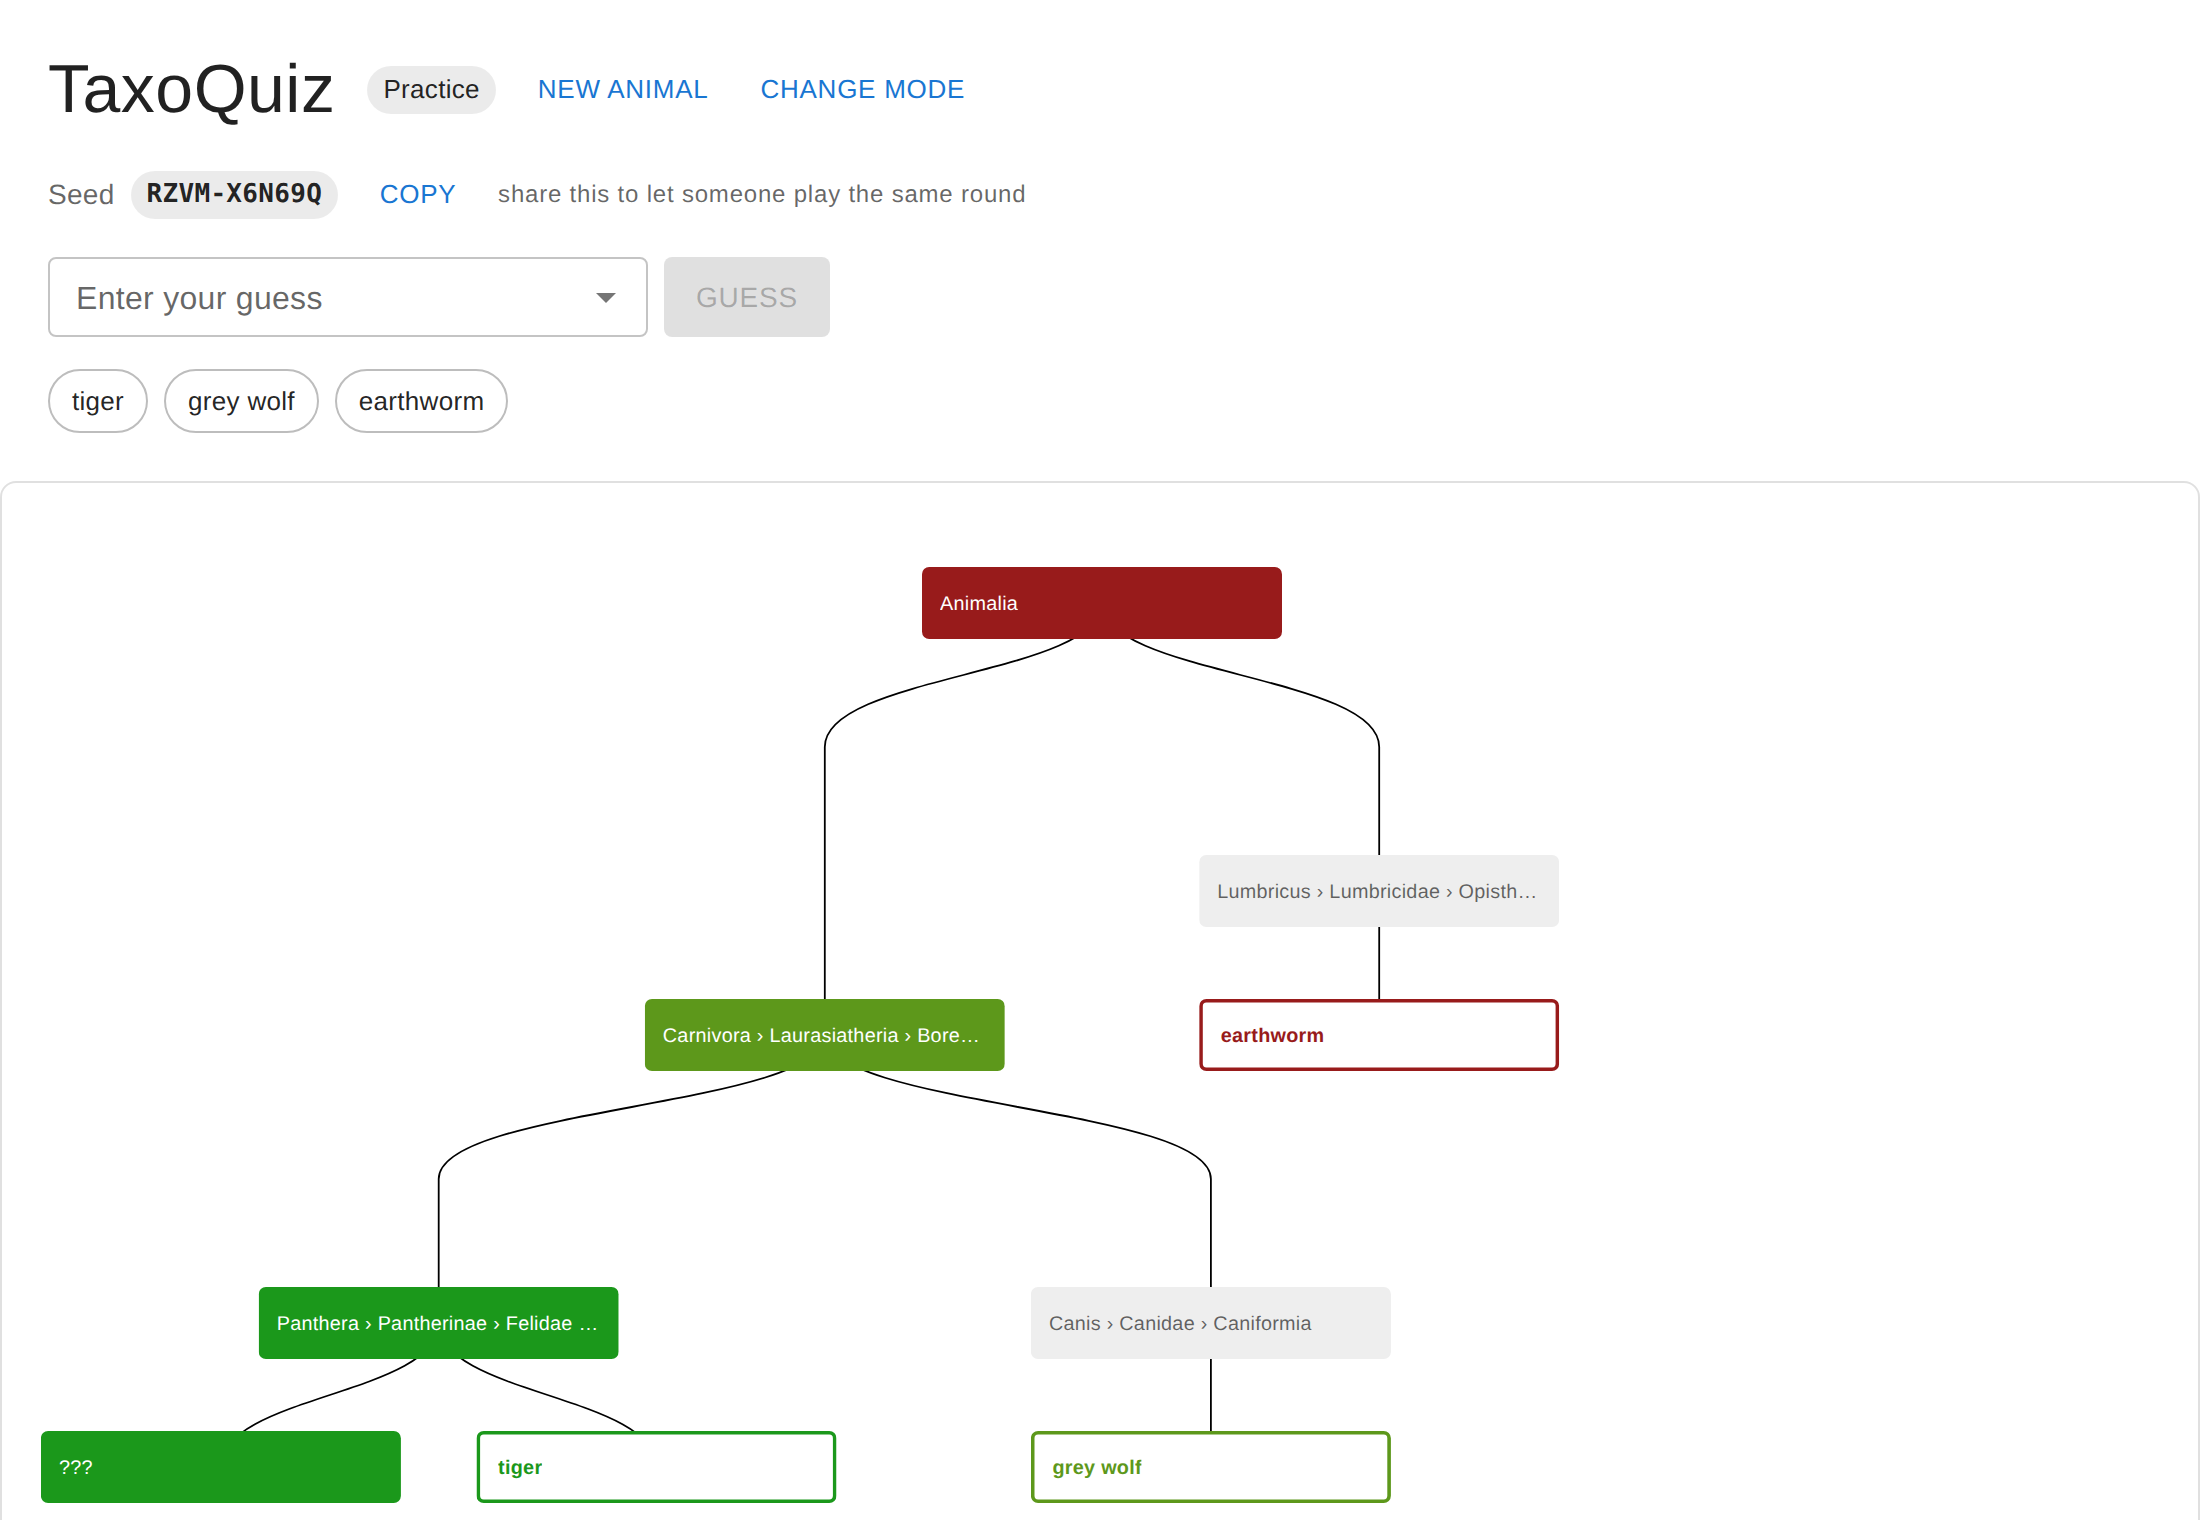
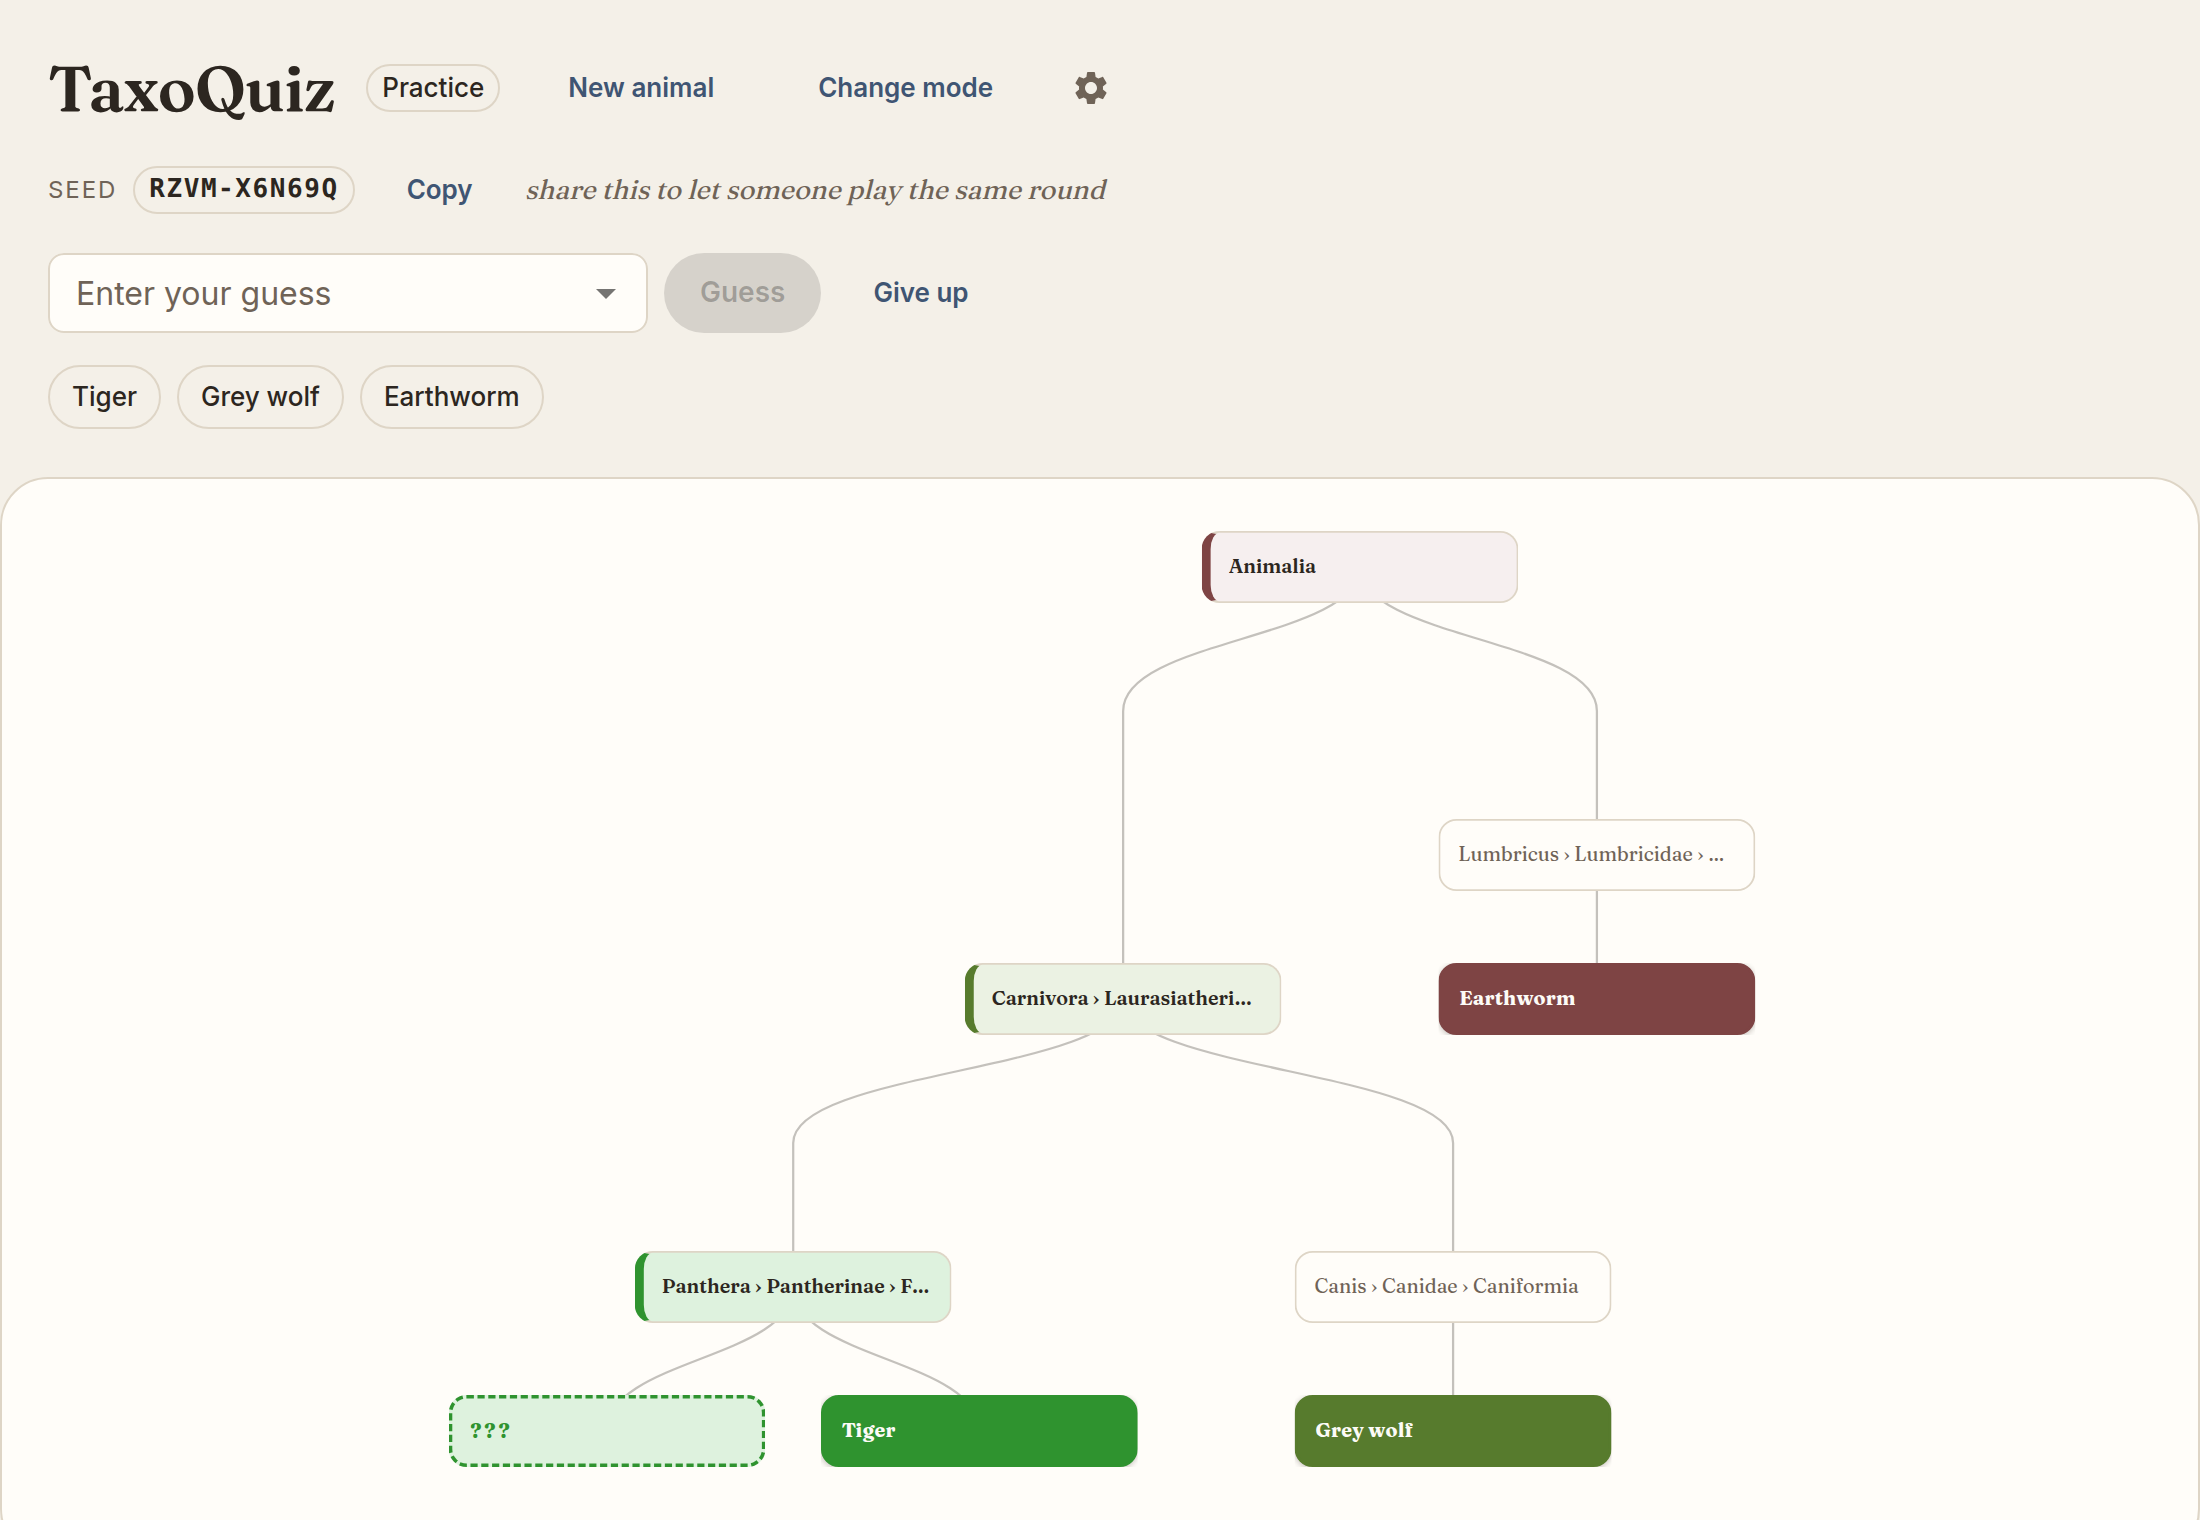
Reshoot the screenshots, which showed an app that no longer exists
They were taken on 29 Aug, before the theme, before the fill and spine changed
places, and before names were capitalised on screen — so the three pictures at
the top of the README were of the default-MUI version, which is the first thing
a reader sees and the last thing they can check.

The start shot also needed refitting rather than just retaking. 330px reached
the seed box in the old tighter layout and cuts off mid-sentence in this one,
which left the shot contradicting its own alt text; 500 is the whole screen and
no more. The alt text is corrected too — the buttons are Today's animal,
Practice and Explore, not Daily and Practice.

Claude-Session: https://claude.ai/code/session_016mQtiotFVtNtvLy6GgzF2y

diff --git a/README.md b/README.md
@@ -235,8 +235,8 @@ Daily shows its seed too, so you can hand today's round to a friend who has
 already played theirs. Daily is not a separate mechanism: it is a seed derived
 from the date, which is what makes it the same for everybody.
 
-![The start screen: Daily and Practice buttons, and below them a box for pasting
-in a seed someone has shared with you.](docs/images/start.png)
+![The start screen: buttons for Today's animal, Practice and Explore, and below
+them a box for pasting in a seed someone has shared with you.](docs/images/start.png)
 
 ```bash
 python -m taxoquiz.game.pick_animal              # a new practice seed
